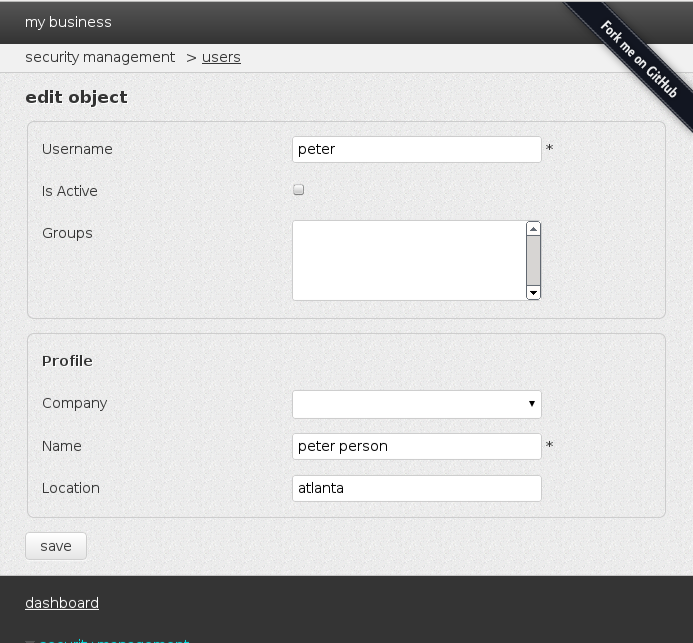
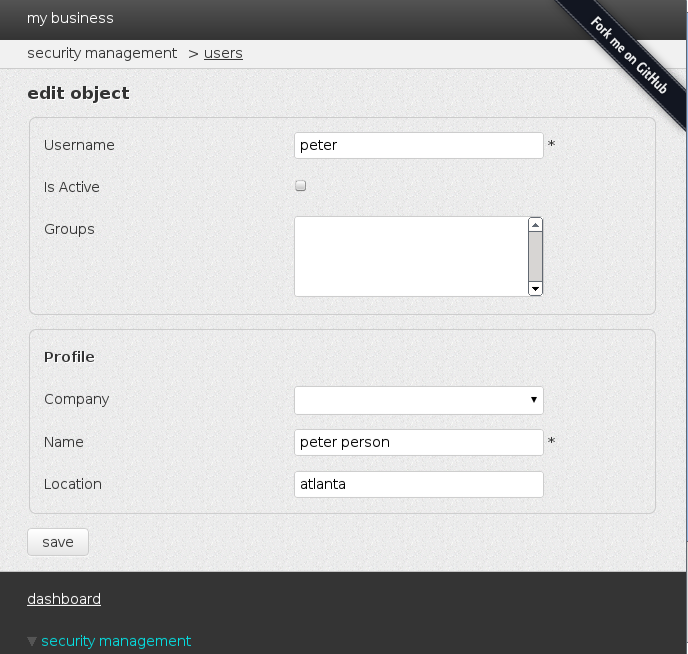
Fixes screenshots

diff --git a/searchindex.js b/searchindex.js
@@ -1,1 +1,1 @@
-Search.setIndex({objects:{"admin.AdminModule":{url:[1,1,1,""],secure_endpoint:[1,2,1,""],add_url_rule:[1,2,1,""]},admin:{Admin:[1,0,1,""],AdminModule:[1,0,1,""],AdminNode:[1,0,1,""],recursive_getattr:[1,3,1,""]},"ext.sqlalchemy.ModelAdminModule":{edit_query_factory:[1,1,1,""],form_view:[1,1,1,""],delete_object:[1,2,1,""],create_object:[1,2,1,""],get_object:[1,2,1,""],save_object:[1,2,1,""],get_object_list:[1,2,1,""],get_actions_for_object:[1,2,1,""],count_list:[1,2,1,""],list_query_factory:[1,1,1,""]},"admin.Admin":{add_path_security:[1,2,1,""],check_path_security:[1,2,1,""],register_module:[1,2,1,""],register_node:[1,2,1,""]},"ext.sqlalchemy":{ModelAdminModule:[1,0,1,""]},"admin.AdminNode":{url_path:[1,1,1,""],parents:[1,1,1,""],secure:[1,2,1,""]}},terms:{demo:0,all:[0,1],code:[0,1],just:1,object:[0,1],get_object:1,queri:1,get_object_list:1,prefix:1,session:0,hierarchi:1,dynam:1,paramet:1,get_actions_for_object:1,easi:0,flask:[0,1],bookmodul:0,secure_endpoint:[0,1],"short":1,add:1,dict:[],order_by_nam:1,flask_dash:0,appli:1,main:1,modul:[0,1],applic:[0,1],non:1,sourc:1,"return":[0,1],string:1,get:1,python:[],db_session:0,account:0,initi:[],adminnod:1,tabl:0,"import":0,now:0,view_func:1,requir:0,introduct:0,name:1,specif:[0,1],edit:[0,1],"0x31b3518":[],contain:1,quick:1,refer:0,manag:0,egg:[],view:[0,1],jean:[],recursive_getattr:1,deal:0,list:[0,1],short_titl:1,node_class:1,back:1,sign:0,sampl:0,respons:1,register_modul:[0,1],librari:0,url_prefix:1,index:0,navig:[0,1],register_rul:[],current:1,delet:1,rel:1,"new":1,order:1,attribut:1,form_view:1,run:0,parent:[0,1],"0x2be35a8":[],usag:0,extens:[0,1],offset:1,path:1,modifi:0,organ:0,protect:1,obj:1,"0x23b0638":[],admin:[0,1],page:0,filter:1,instanc:1,organis:[],"0x31259e0":[],act:1,action:1,com:0,first:1,useful:1,point:[],register_nod:[0,1],app:[0,1],jeanphi:0,automat:0,feet:0,api:[0,1],"__name__":0,instal:0,primari:1,kei:1,quit:0,given:1,git:[],from:[0,1],wai:1,regist:[0,1],limit:1,"long":1,order_by_direct:1,interfac:[0,1],demonstr:0,save:1,check_edit_credenti:0,fals:1,"function":1,option:1,form:0,tupl:1,tool:0,relat:1,add_url_rul:1,search:[0,1],check_endpoint_secur:[],count_list:1,sqlalchemi:[0,1],doesn:1,child:0,add_path_secur:1,objectformview:1,count:1,none:1,endpoint:[0,1],attr:1,provid:[0,1],alia:1,setup:[],access:[],tree:0,can_list:[],kwarg:1,ressourc:0,dashboard:1,posit:1,def:0,list_query_factori:1,creat:1,give:1,module_class:1,arg:1,save_object:1,them:0,templat:1,dash:[0,1],jeanphix:0,book_modul:0,exist:1,rule:1,login_requir:0,"__main__":0,pip:0,onlin:0,delete_object:1,check:1,philipp:[],decor:1,can_edit_book:0,secur:[0,1],titl:1,rout:1,when:1,check_list_credenti:[],field:1,need:[0,1],book:0,build:0,indic:0,check_path_secur:1,document:0,simpl:[0,1],node:[0,1],copi:1,http:[0,1],create_object:1,nest:[],after:[],breadcrumb:[0,1],user:0,mai:0,url_path:1,"class":[0,1],enpoint:1,welcom:0,your:0,can_edit:[],github:0,view_class:1,ani:1,url:1,direct:1,builder:1,minim:0,modeladminmodul:[0,1],inherit:0,element:[],edit_query_factori:1,ext:[0,1],adminmodul:1,model:[0,1],main_dashboard:1,http_code:[0,1],add_endpoint_secur:[]},objtypes:{"0":"py:class","1":"py:attribute","2":"py:method","3":"py:function"},titles:["Welcome to Flask_Dashed&#8217;s documentation!","Api"],objnames:{"0":["py","class","Python class"],"1":["py","attribute","Python attribute"],"2":["py","method","Python method"],"3":["py","function","Python function"]},filenames:["index","api"]})
+Search.setIndex({objects:{"admin.AdminModule":{url:[1,1,1,""],secure_endpoint:[1,2,1,""],add_url_rule:[1,2,1,""]},admin:{Admin:[1,0,1,""],AdminModule:[1,0,1,""],AdminNode:[1,0,1,""],recursive_getattr:[1,3,1,""]},"ext.sqlalchemy.ModelAdminModule":{edit_query_factory:[1,1,1,""],form_view:[1,1,1,""],delete_object:[1,2,1,""],create_object:[1,2,1,""],get_object:[1,2,1,""],save_object:[1,2,1,""],get_object_list:[1,2,1,""],get_actions_for_object:[1,2,1,""],count_list:[1,2,1,""],list_query_factory:[1,1,1,""]},"admin.Admin":{add_path_security:[1,2,1,""],check_path_security:[1,2,1,""],register_module:[1,2,1,""],register_node:[1,2,1,""]},"ext.sqlalchemy":{ModelAdminModule:[1,0,1,""]},"admin.AdminNode":{url_path:[1,1,1,""],parents:[1,1,1,""],secure:[1,2,1,""]}},terms:{all:[0,1],code:[0,1],just:1,get_object:1,queri:1,get_object_list:1,prefix:1,session:0,hierarchi:1,dynam:1,paramet:1,current:1,easi:0,field:1,flask:[0,1],point:[],secure_endpoint:[0,1],main_dashboard:1,add:1,dict:[],order_by_nam:1,flask_dash:0,register_nod:[0,1],main:1,app:[0,1],applic:[0,1],non:1,sourc:1,"return":[0,1],string:1,get:1,python:[],db_session:0,none:1,initi:[],adminnod:1,endpoint:[0,1],"new":1,now:0,view_func:1,requir:0,introduct:0,name:1,specif:[0,1],edit:[0,1],list:[0,1],contain:1,quick:1,attribut:1,manag:0,view:[0,1],recursive_getattr:1,deal:0,"0x31b3518":[],short_titl:1,node_class:1,back:1,sign:0,sampl:0,respons:1,register_modul:[0,1],librari:0,url_prefix:1,index:0,navig:[0,1],register_rul:[],get_actions_for_object:1,delet:1,rel:1,"import":0,refer:0,model:[0,1],form_view:1,run:0,parent:[0,1],"0x2be35a8":[],usag:0,extens:[0,1],"__main__":0,offset:1,path:1,http_code:[0,1],modifi:0,organ:0,after:[],protect:1,obj:1,"0x23b0638":[],admin:[0,1],page:0,filter:1,instanc:1,organis:[],"0x31259e0":[],act:1,action:1,com:0,first:1,book_modul:0,useful:1,bookmodul:0,appli:1,modul:[0,1],jeanphi:0,automat:0,feet:0,api:[0,1],"__name__":0,instal:0,primari:1,kei:1,quit:0,given:1,git:[],from:[0,1],wai:1,regist:[0,1],limit:1,"long":1,order_by_direct:1,interfac:[0,1],enpoint:1,module_class:1,check_edit_credenti:0,"function":1,option:1,form:0,tupl:1,tool:0,relat:1,add_url_rul:1,search:[0,1],check_endpoint_secur:[],github:0,count_list:1,sqlalchemi:[0,1],templat:1,child:0,add_path_secur:1,objectformview:1,count:1,account:0,save:1,attr:1,provid:[0,1],alia:1,setup:[],access:[],tree:0,can_list:[],url:1,ressourc:0,dashboard:1,posit:1,def:0,list_query_factori:1,creat:1,give:1,demo:0,arg:1,save_object:1,them:0,doesn:1,dash:[0,1],jeanphix:0,kwarg:1,exist:1,inherit:0,login_requir:0,tabl:0,pip:0,onlin:0,delete_object:1,check:1,philipp:[],decor:1,can_edit_book:0,secur:[0,1],titl:1,rout:1,when:1,check_list_credenti:[],fals:1,need:[0,1],book:0,build:0,indic:0,check_path_secur:1,document:0,simpl:[0,1],node:[0,1],copi:1,http:[0,1],create_object:1,nest:[],object:[0,1],breadcrumb:[0,1],user:0,mai:0,url_path:1,"class":[0,1],demonstr:0,welcom:0,your:0,can_edit:[],"short":1,view_class:1,ani:1,direct:1,builder:1,minim:0,modeladminmodul:[0,1],rule:1,element:[],edit_query_factori:1,ext:[0,1],adminmodul:1,jean:[],egg:[],order:1,add_endpoint_secur:[]},objtypes:{"0":"py:class","1":"py:attribute","2":"py:method","3":"py:function"},titles:["Welcome to Flask_Dashed&#8217;s documentation!","Api"],objnames:{"0":["py","class","Python class"],"1":["py","attribute","Python attribute"],"2":["py","method","Python method"],"3":["py","function","Python function"]},filenames:["index","api"]})

diff --git a/index.html b/index.html
@@ -48,9 +48,9 @@
 <p>Flask-Dashed provides tools for build simple and extensible admin interfaces.</p>
 <p>Online demonstration: <a class="reference external" href="http://flask-dashed.jeanphi.fr/">http://flask-dashed.jeanphi.fr/</a> (Github account required).</p>
 <p>List view:</p>
-<img alt="https://github.com/jeanphix/Flask-Dashed/raw/master/docs/_static/screen.png" src="https://github.com/jeanphix/Flask-Dashed/raw/master/docs/_static/screen.png" />
+<img alt="https://github.com/jeanphix/Flask-Dashed/raw/dev/docs/_static/screen.png" src="https://github.com/jeanphix/Flask-Dashed/raw/dev/docs/_static/screen.png" />
 <p>Form view:</p>
-<img alt="https://github.com/jeanphix/Flask-Dashed/raw/master/docs/_static/screen-edit.png" src="https://github.com/jeanphix/Flask-Dashed/raw/master/docs/_static/screen-edit.png" />
+<img alt="https://github.com/jeanphix/Flask-Dashed/raw/dev/docs/_static/screen-edit.png" src="https://github.com/jeanphix/Flask-Dashed/raw/dev/docs/_static/screen-edit.png" />
 </div>
 <div class="section" id="installation">
 <h2>Installation<a class="headerlink" href="#installation" title="Permalink to this headline">¶</a></h2>
